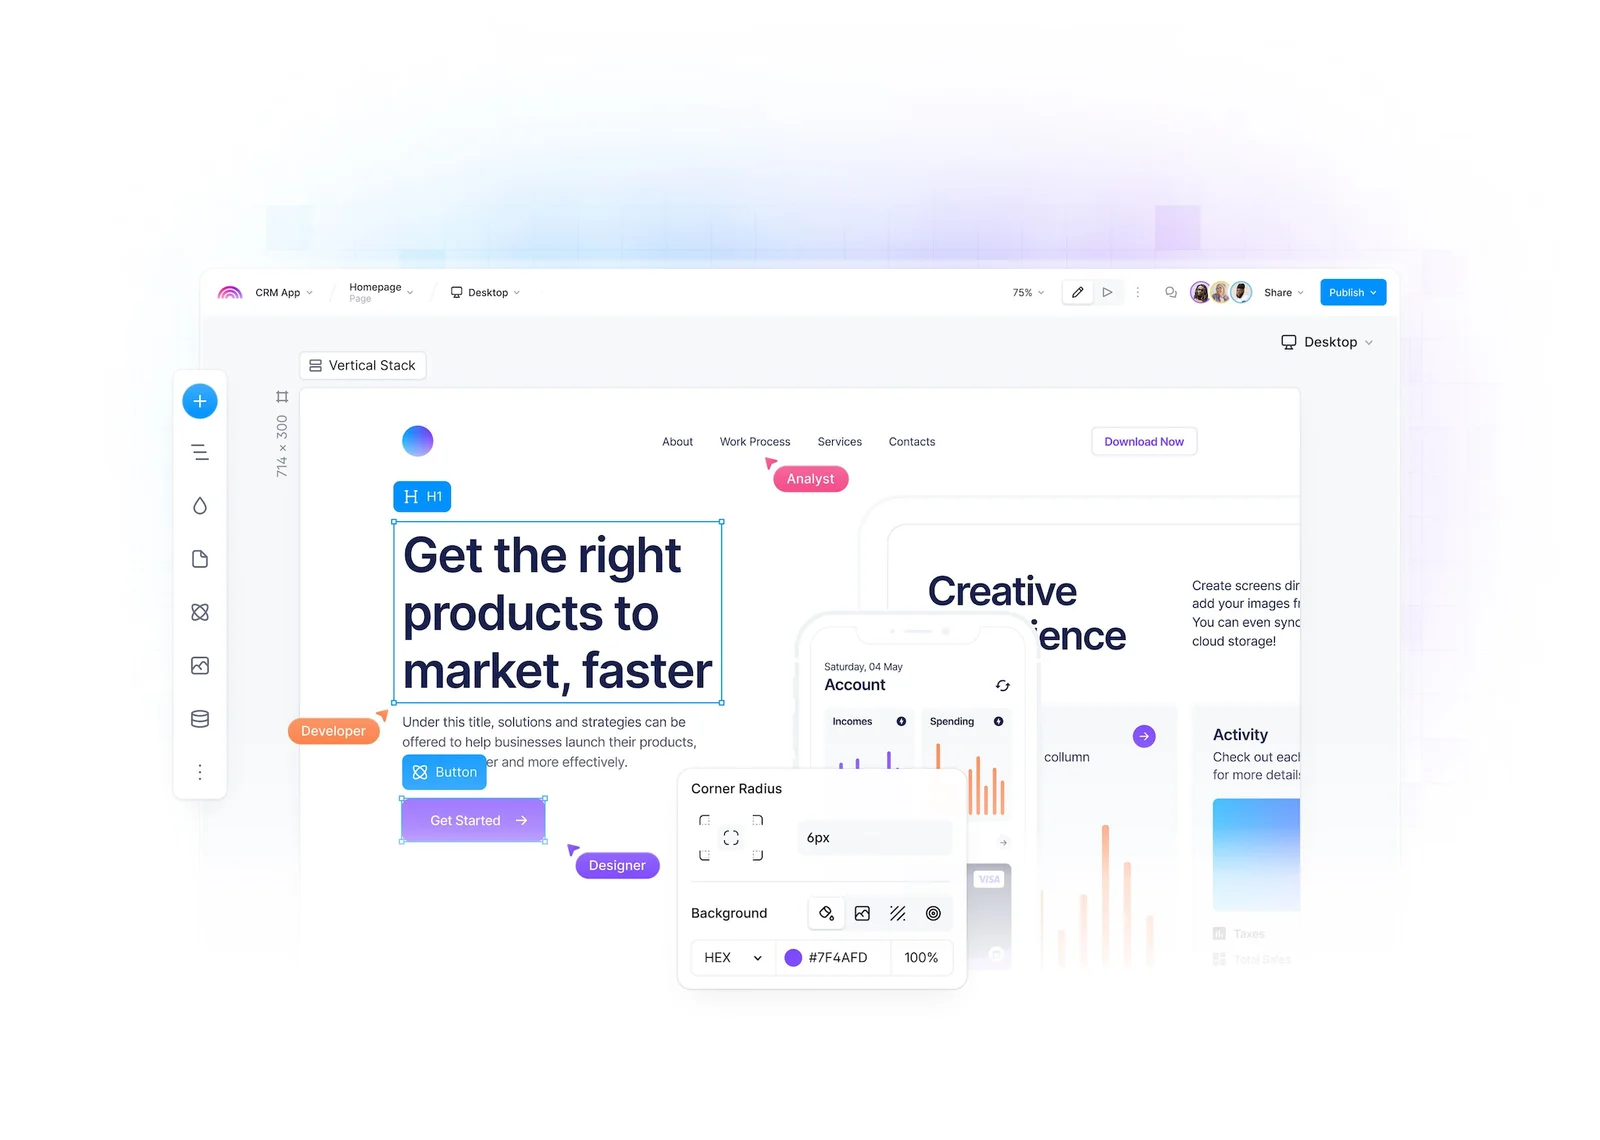
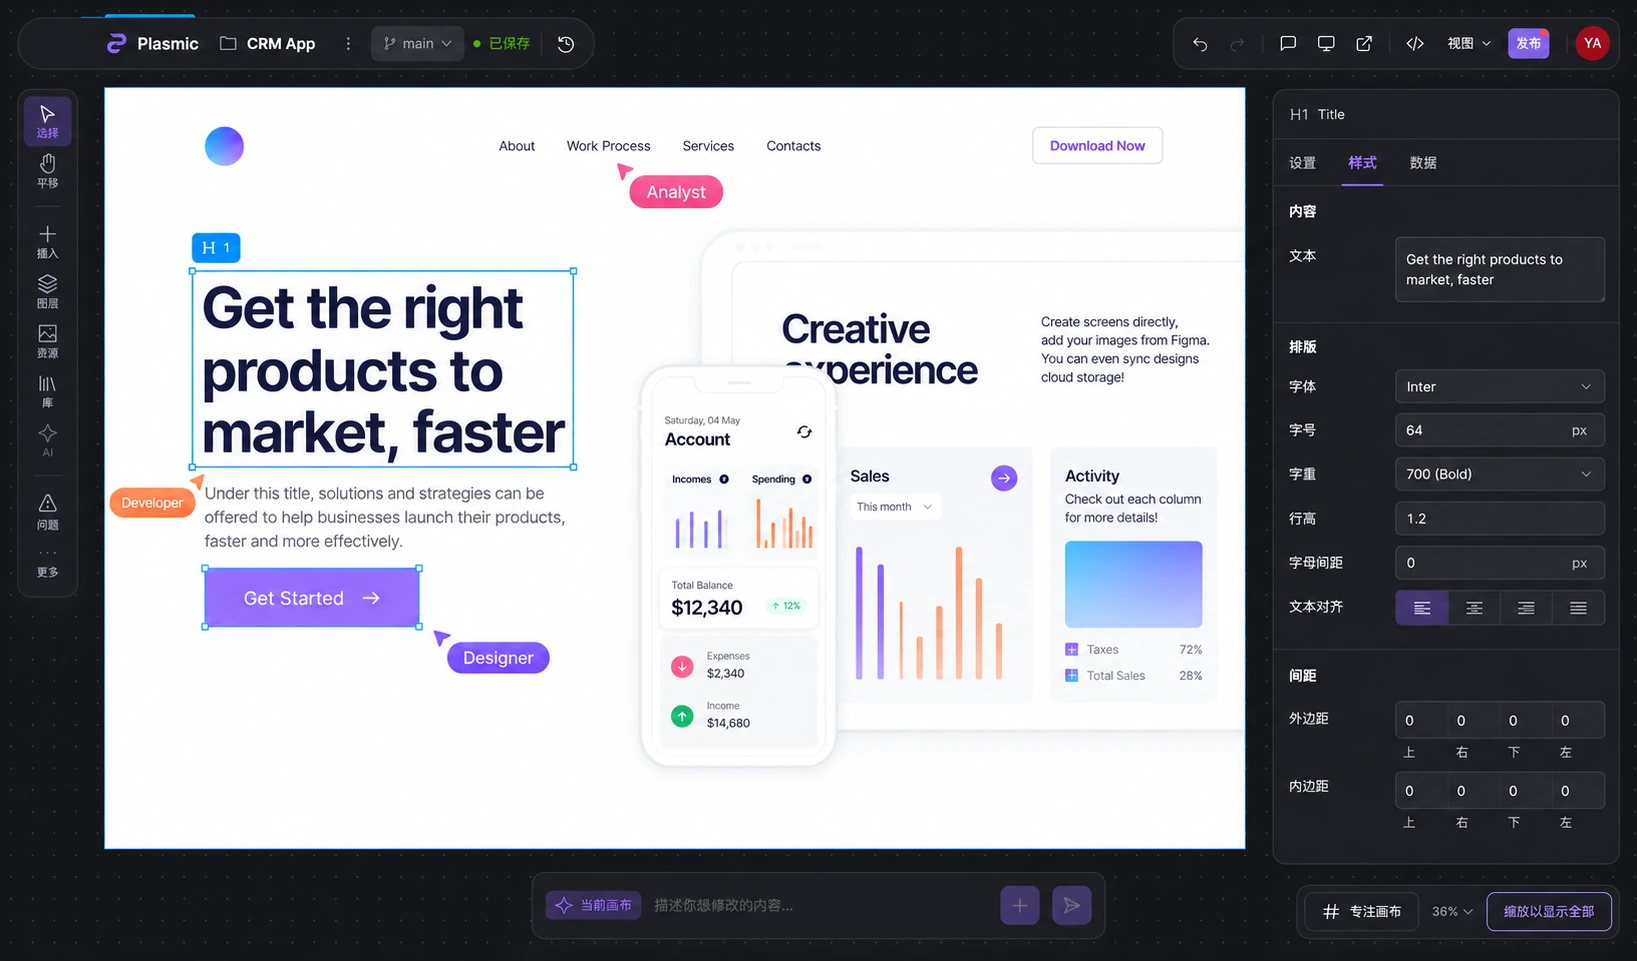
Refresh Zhijie editor visuals for the current dark theme

diff --git a/src/pages/ZhijiePage.tsx b/src/pages/ZhijiePage.tsx
@@ -31,7 +31,7 @@ function HowItWorks() {
       </div>
       <div className="zhijie-how-panel" role="tabpanel" id={`${id}-panel`} aria-labelledby={`${id}-tab-${active}`} tabIndex={0}>
         <div className="zhijie-feature-copy"><span className="zhijie-feature-icon">{active === 0 ? <IconLink /> : <IconLayers />}</span><h3>{active === 0 ? <>Connect to<br /><em>any data source</em></> : <>Drag & drop<br /><em>components</em></>}</h3><p>{active === 0 ? 'Connect Supabase, Contentful, and Shopify with built-in integrations, or bring data from any HTTP or GraphQL API.' : 'Add components to the canvas, then configure dynamic content, state, and events to build your experience.'}</p>{active === 0 && <a className="btn btn-ghost" href="https://www.plasmic.app/integrations" target="_blank" rel="noopener noreferrer">See all integrations <IconArrowRight /></a>}</div>
-        <figure className={active === 0 ? 'zhijie-connect-visual' : 'zhijie-editor-visual'}><img src={active === 0 ? '/assets/zhijie/connect.svg' : '/assets/zhijie/drag-drop.webp'} width={active === 0 ? 498 : 1397} height={active === 0 ? 512 : 1422} alt={active === 0 ? 'Plasmic data integrations: Google Sheets, Zapier, Supabase, Vercel, Contentful, and Shopify' : 'Building a dashboard by dragging and dropping components in Plasmic Studio'} /></figure>
+        <figure className={active === 0 ? 'zhijie-connect-visual' : 'zhijie-editor-visual'}><img src={active === 0 ? '/assets/zhijie/connect.svg' : '/assets/zhijie/drag-drop.webp'} width={active === 0 ? 498 : 800} height={active === 0 ? 512 : 860} alt={active === 0 ? 'Plasmic data integrations: Google Sheets, Zapier, Supabase, Vercel, Contentful, and Shopify' : 'The current dark Studio insert panel with component, template, and asset tabs'} /></figure>
       </div>
     </section>
   );
@@ -108,7 +108,7 @@ export function ZhijiePage() {
               <div className="zhijie-actions"><a className="btn btn-primary btn-lg" href={PLASMIC_WEB_URL} target="_blank" rel="noopener noreferrer">Get started <IconArrowRight aria-hidden="true" /></a><a className="btn btn-ghost btn-lg" href="#download"><IconDownload aria-hidden="true" />Download desktop app</a></div>
             </div>
             <div className="zhijie-preview-wrap">
-              <div className="zhijie-preview-frame"><img className="zhijie-studio-image" src="/assets/zhijie/studio.webp" width="1600" height="900" fetchPriority="high" alt="Editing desktop and mobile storefronts side by side in Plasmic Studio, with controls for text, layout, and styles" /></div>
+              <div className="zhijie-preview-frame"><img className="zhijie-studio-image" src="/assets/zhijie/studio.webp" width="1636" height="961" fetchPriority="high" alt="Desktop and mobile storefronts in the dark Studio editor, with floating project and action capsules, a tool rail, and a style inspector" /></div>
               <div className="zhijie-preview-fade"><div className="zhijie-use-types" aria-label="What you can build">{['Internal tools', 'Customer portals', 'SaaS apps', 'Storefronts', 'Websites', 'Content management'].map(type => <span key={type}>{type}</span>)}</div></div>
             </div>
           </div>
@@ -131,7 +131,7 @@ export function ZhijiePage() {
         <section id="collaboration" className="zhijie-collaboration container">
           <div className="zhijie-section-heading is-left reveal"><span className="section-kicker">COLLABORATION</span><h2><em>Bridge the gap</em><br />between teams</h2><p>Bring development, design, content, and business teams together to build better product experiences.</p></div>
           <div className="zhijie-collaboration-details reveal"><article><h3>Empower<br /><em>non-developers</em></h3><p>Developers register components as building blocks. Marketing, content, design, and product teams can build and publish pages on the canvas.</p></article><article><h3>Collaborate<br /><em>effortlessly</em></h3><p>Keep teams moving together with multiplayer editing and branching. Work in parallel and focus on what each team does best.</p></article></div>
-          <figure className="zhijie-collaboration-visual zhijie-illustration reveal"><img src="/assets/zhijie/collaboration.webp" width="1600" height="1140" loading="lazy" alt="Team members collaborating on a shared Plasmic canvas" /></figure>
+          <figure className="zhijie-collaboration-visual zhijie-editor-visual reveal"><img src="/assets/zhijie/collaboration.webp" width="1637" height="961" loading="lazy" alt="Design, development, and business collaborators on a light business canvas inside the current dark Studio editor" /></figure>
         </section>
         <section id="integration" className="zhijie-integration container">
           <div className="zhijie-section-heading reveal"><span className="section-kicker">POWER</span><h2>Integrate with any<br /><em>codebase</em></h2><p>Bring visual building into your existing codebase and keep working with your own tech stack.</p></div>

diff --git a/src/styles/zhijie.less b/src/styles/zhijie.less
@@ -62,7 +62,8 @@
 .zhijie-connect-visual img { width: 100%; filter: invert(1) hue-rotate(180deg); }
 .zhijie-editor-visual { overflow: hidden; border: 1px solid var(--line); border-radius: 10px; padding: 5px; background: #121b2b; }
 .zhijie-editor-visual img, .zhijie-editor-visual video { display: block; width: 100%; height: auto; border-radius: 6px; }
-.zhijie-how-panel .zhijie-editor-visual { max-height: 440px; }
+.zhijie-how-panel .zhijie-editor-visual, .zhijie-collaboration-visual { border-color: #373842; background: #15161b; }
+.zhijie-how-panel .zhijie-editor-visual { align-self: center; }
 .zhijie-how-panel .zhijie-editor-visual img { width: 100%; }
 .zhijie-ai { padding-block: 20px 105px; }
 .zhijie-ai-workbench { display: grid; grid-template-columns: 1fr 1.1fr; margin-top: 45px; border: 1px solid var(--line); border-radius: 10px; overflow: hidden; background: linear-gradient(115deg, #0a1322, #111329); }
@@ -183,7 +184,6 @@
   .zhijie-how-panel, .zhijie-feature-row, .zhijie-feature-row.is-reversed, .zhijie-deployment-intro { grid-template-columns: 1fr; }
   .zhijie-how-panel { max-width: 580px; padding: 35px; }
   .zhijie-how-panel figure { max-width: 420px; margin-inline: auto; }
-  .zhijie-how-panel .zhijie-editor-visual { max-height: none; }
   .zhijie-feature-row { gap: 35px; margin-top: 60px; }
   .zhijie-feature-row.is-reversed > .zhijie-feature-copy, .zhijie-feature-row.is-reversed > figure { order: initial; }
   .zhijie-feature-row figure { max-width: 580px; margin-inline: auto; }

diff --git a/docs/zhijie-media.md b/docs/zhijie-media.md
@@ -1,16 +1,18 @@
 # 织界产品页素材
 
-`public/assets/zhijie/` 中的图片来自 [Plasmic 官网](https://www.plasmic.app/)，
-素材用于对应的产品能力展示，来源记录如下。图片使用 WebP / SVG，演示使用 MP4；页面无需运行时访问上游素材服务。
+`public/assets/zhijie/` 中的界面素材以当前 Plasmic Desktop 的黑色主题截图为基准。
+首屏和协作图使用内置 imagegen 制作展示变体；插入面板直接截取实际界面。
+业务画布和其他能力示意沿用 [Plasmic 官网](https://www.plasmic.app/) 的展示内容。
+图片使用 WebP / SVG，Figma 演示使用 MP4；页面无需运行时访问上游素材服务。
 
 | 本地文件 | 上游图片 |
 | --- | --- |
-| `studio.webp` | [Studio 编辑器](https://img.plasmic.app/img-optimizer/v1/img/991b16d211e5b8c84082978c283597c6.png) |
+| `studio.webp` | 当前 Desktop 黑色主题界面参考 + [商城业务画布](https://img.plasmic.app/img-optimizer/v1/img/991b16d211e5b8c84082978c283597c6.png) |
 | `design.webp` | [应用设计](https://img.plasmic.app/img-optimizer/v1/img/3713fc4f62554a22aeef888c0939c630.png) |
-| `collaboration.webp` | [团队协作](https://img.plasmic.app/img-optimizer/v1/img/c2cf6cb25635ea627e626bc1e7a37241.png) |
+| `collaboration.webp` | 当前 Desktop 黑色主题界面参考 + [协作业务画布](https://img.plasmic.app/img-optimizer/v1/img/c2cf6cb25635ea627e626bc1e7a37241.png) |
 | `components.webp` | [React 组件集成](https://img.plasmic.app/img-optimizer/v1/img/ea68c8c10edb0b4a4a48bf2bc4a0019a.jpg) |
 | `connect.svg` | [Plasmic 官方素材](https://site-assets.plasmic.app/7bfabb2cc067bbd2ae1b27b89ad77138.svg) |
-| `drag-drop.webp` | [Plasmic 官方素材](https://img.plasmic.app/img-optimizer/v1/img?src=https%3A%2F%2Fimg.plasmic.app%2Fimg-optimizer%2Fv1%2Fimg%2F9df60b7d33fefeb89735ae4a923f8671.png&w=1080&q=80&f=webp) |
+| `drag-drop.webp` | 实际 Desktop 插入资源面板截图；组件、模板、资源标签与分类下拉 |
 | `figma-poster.jpg` | 从下方 Figma 演示视频的首帧提取 |
 | `figma.mp4` | [Plasmic 官方素材](https://site-assets.plasmic.app/64f55665dba8fc2cd5a4a9dd7737ce91.mp4) |
 | `existing-app.webp` | [Plasmic 官方素材](https://img.plasmic.app/img-optimizer/v1/img?src=https%3A%2F%2Fimg.plasmic.app%2Fimg-optimizer%2Fv1%2Fimg%2F00d6dd3f35d1abfabe8c5313d1dab888.jpg&w=1080&q=80&f=webp) |
@@ -27,6 +29,15 @@
 
 官网的 HOW IT WORKS、DESIGN、COLLABORATION、POWER、DEPLOYMENT 和 SCALE UP 保留各自的展示结构；企业、贡献者、客户及官网底部区域不引入。SOC 2 卡片指向 Plasmic 官方合规信息，不表示拾光部署获得该认证。
 
-首屏编辑器展示使用官网的 976px 宽框、8px 半透明边框、16px 圆角和 120px 底部渐隐层，产品类型标签叠放在渐隐层底部。首屏网格背景保留官网素材纹理，配色适配拾光的紫蓝色。
+首屏编辑器展示使用 976px 宽框、8px 半透明边框、16px 圆角和 120px 底部渐隐层，产品类型标签叠放在渐隐层底部。首屏网格背景保留官网素材纹理，配色适配拾光的紫蓝色。
+
+产品界面采用 `#15161b` 背景、`#202128` 面板、`#272831` 浮层、`#373842` 边框和 `#9474ff` 强调色。
+编辑器保留实际界面的品牌与项目胶囊、分支与保存状态、右侧操作胶囊及头像、分组工具栏、底部 AI 输入和缩放控件。
+新界面图直接展示原色，不使用反色滤镜。业务画布保留自己的配色；示例中的多人光标是协作能力示意。
+
+imagegen 提示词规范：
+
+- 首屏：以实际黑色 Studio 截图为界面基准，保留胶囊、工具栏、背景和底部控件的结构；中央使用原商城桌面与移动端画布，右侧展示与选中标题一致的样式控件。
+- 协作：沿用同一实际编辑器结构，中央保留 CRM 营销页面与财务应用预览、角色光标和选择框；右侧样式字段对应所选 H1。
 
 Figma 演示在开始播放前显示首帧封面，并预留 1432:1080 的视频比例。视频容器直接可见，不依赖滚动入场动画。

diff --git a/DESIGN.md b/DESIGN.md
@@ -14,14 +14,17 @@ and the Shiguang mark rather than decorative illustration.
   light text, restrained violet/blue accents, and the shared header and buttons.
 - Use the main site's typography. The hero preview preserves the reference
   framing, bottom fade, and overlaid pill labels; other surfaces use compact
-  corner radii. Product screenshots
-  retain their original interface colors inside dark frames. Light-background
+  corner radii. Studio and workspace visuals use the current product's graphite
+  dark theme, violet accents, floating project/action capsules, and grouped tool
+  rail. Business canvases retain their configured colors inside the editor.
+  Light-background
   feature illustrations use an inverted palette to fit the dark surface.
 - Content follows the product workflow: Studio, data and composition, AI, design,
   collaboration, React integration, deployment, scale-up, then Web/Desktop access.
   Preserve the Plasmic homepage's individual feature blocks and visual order.
   Omit company logos, contributor/customer lists, and the original bottom CTA
-  and footer. Use attributed Plasmic product images and demonstrations.
+  and footer. Product interface illustrations follow actual Desktop captures;
+  retained Plasmic business examples are attributed in `docs/zhijie-media.md`.
 - The AI section shows the real Plasmickit CLI commands and Skill workflows:
   `skill install` detects supported local Agent CLIs and apps and installs to
   their discovered skill locations without requiring a user-supplied directory;
